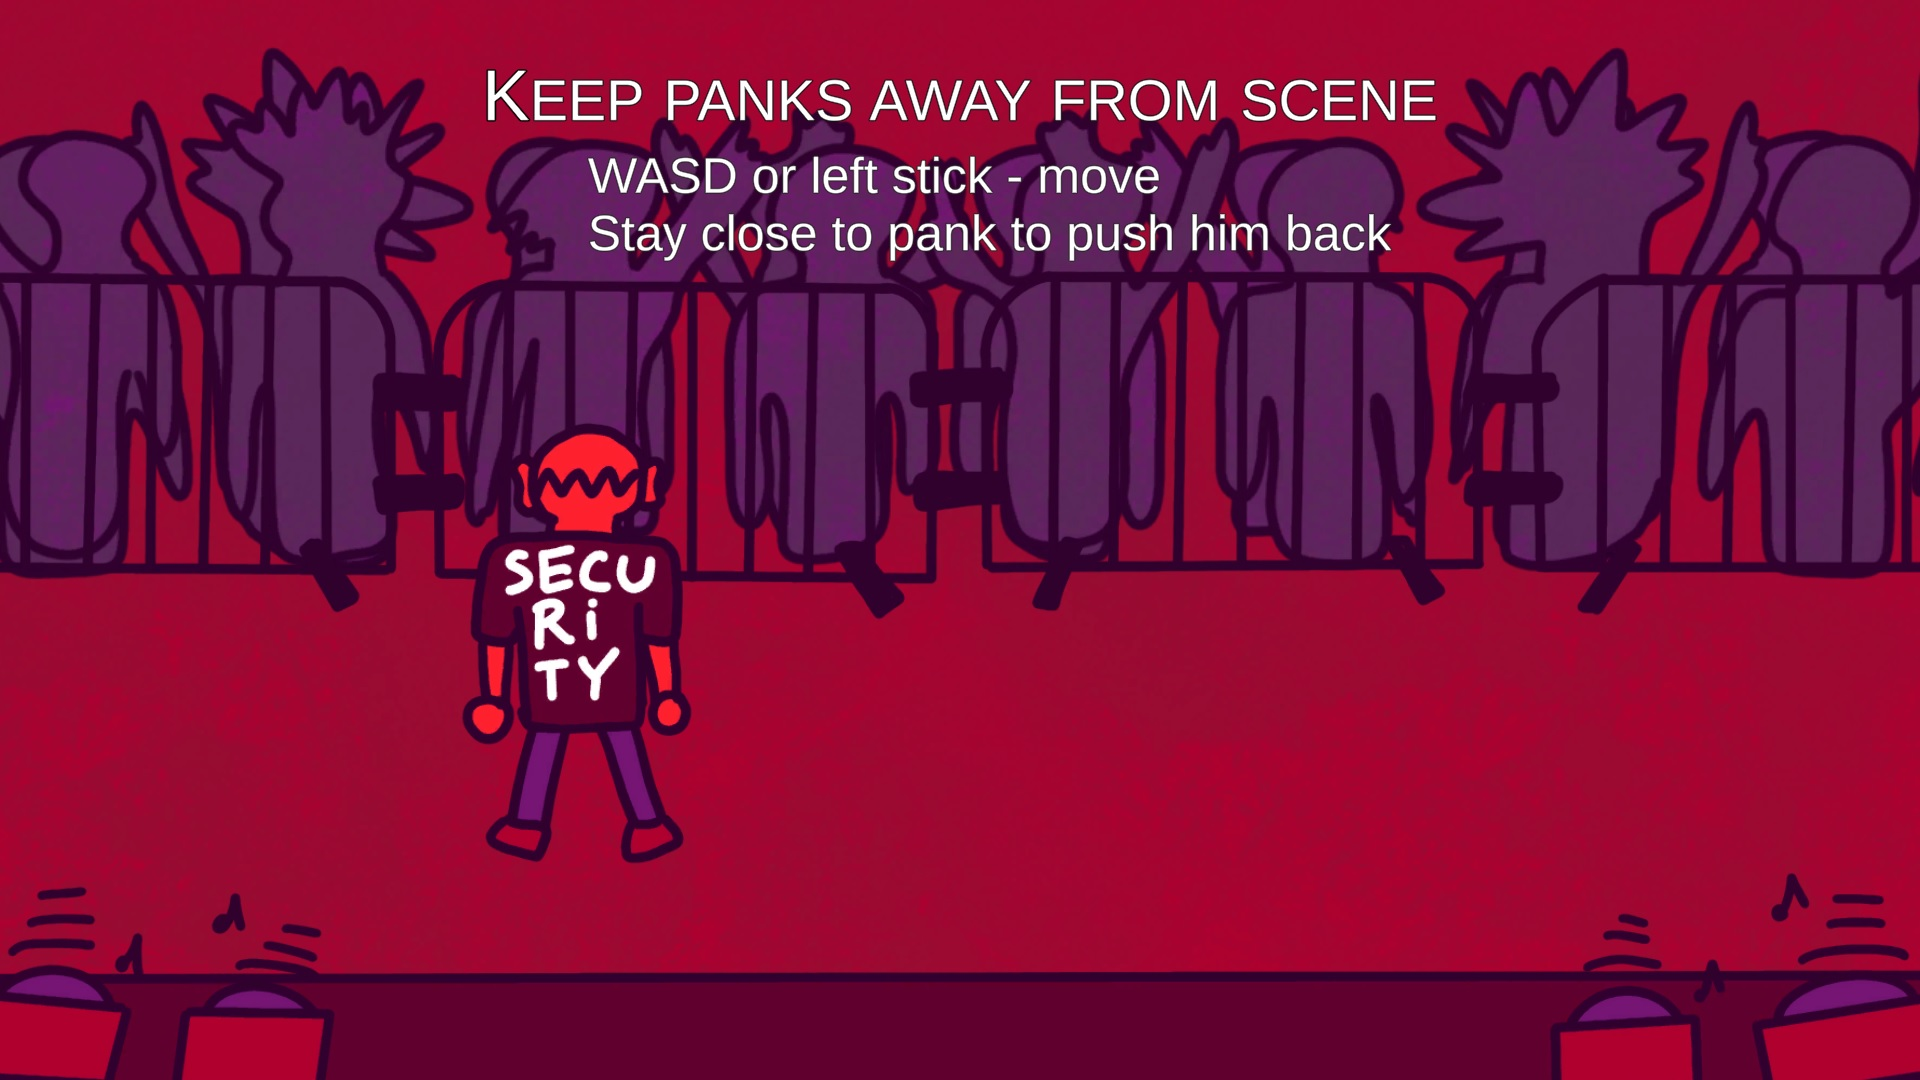
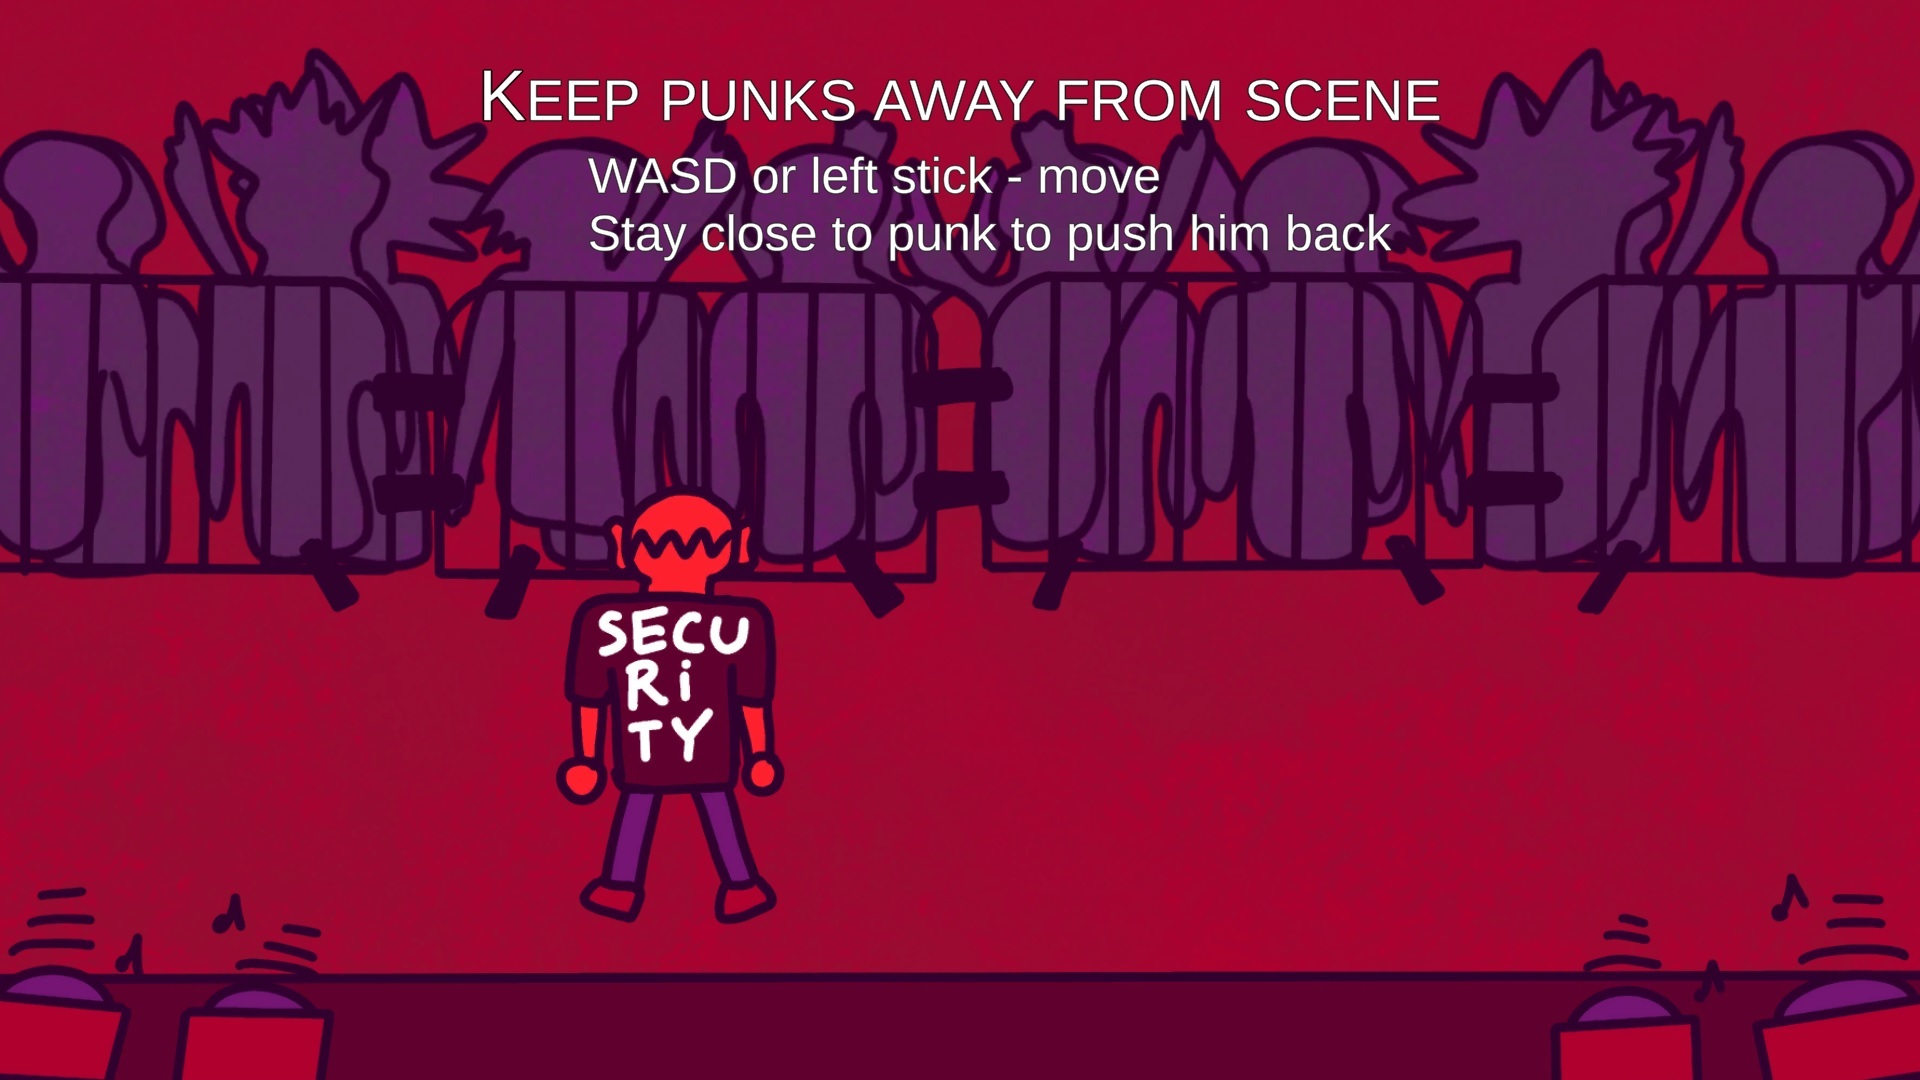
Fix few typos

Changed region(s): [[0.0, 0.0306, 1.0, 0.8556], [0.9688, 0.3056, 1.0, 0.5194]]

diff --git a/SecurityGuard/Assets/Scripts/RunnerSpawner.cs b/SecurityGuard/Assets/Scripts/RunnerSpawner.cs
@@ -33,7 +33,7 @@ public class RunnerSpawner : MonoBehaviour {
 
 		if(currTime <= 0) {
 			currTime += runnerTime;
-			if(runnerTime > 0.5f)
+			if(runnerTime > 1.2f)
 				runnerTime -= timePerSpawn;
 
 			Runner r = Instantiate(runners.Random(), points[currPoint++].transform.position, Quaternion.identity, transform).GetComponent<Runner>();
